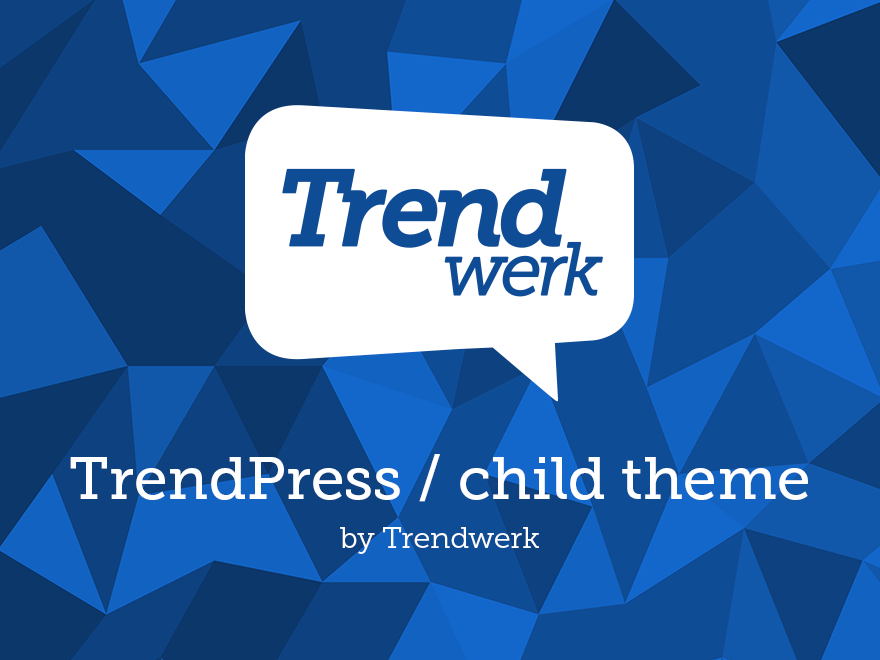
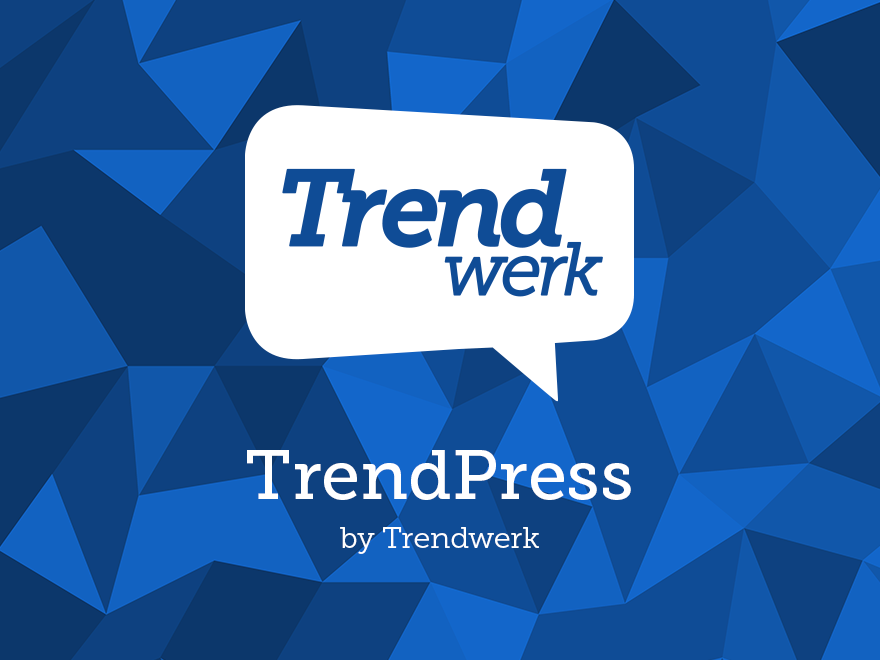
Renamed to TrendPress

Changed region(s): [[0.0614, 0.6667, 0.9205, 0.7576]]

diff --git a/style.css b/style.css
@@ -1,15 +1,14 @@
 /*
- * Theme Name:      TrendPress child
+ * Theme Name:      TrendPress
  * Theme URI:       http://trendpress.trendwerk.nl/
- * Description:     Theme built with TrendPress - A light & simple WordPress framework.
+ * Description:     A light & simple WordPress starter theme.
  * Version:         2.0
  * Author:          Trendwerk
  * Author URI:      http://www.trendwerk.nl/
  * 
  * Text Domain:     tp
- * Template:        trendpress
  * Tags:            one-column, two-columns, responsive-layout, translation-ready
  *
- * License:         GNU General Public License v2.0
+ * License:         GNU General Public License v2 or later
  * License URI:     http://www.gnu.org/licenses/gpl-2.0.html
  */
